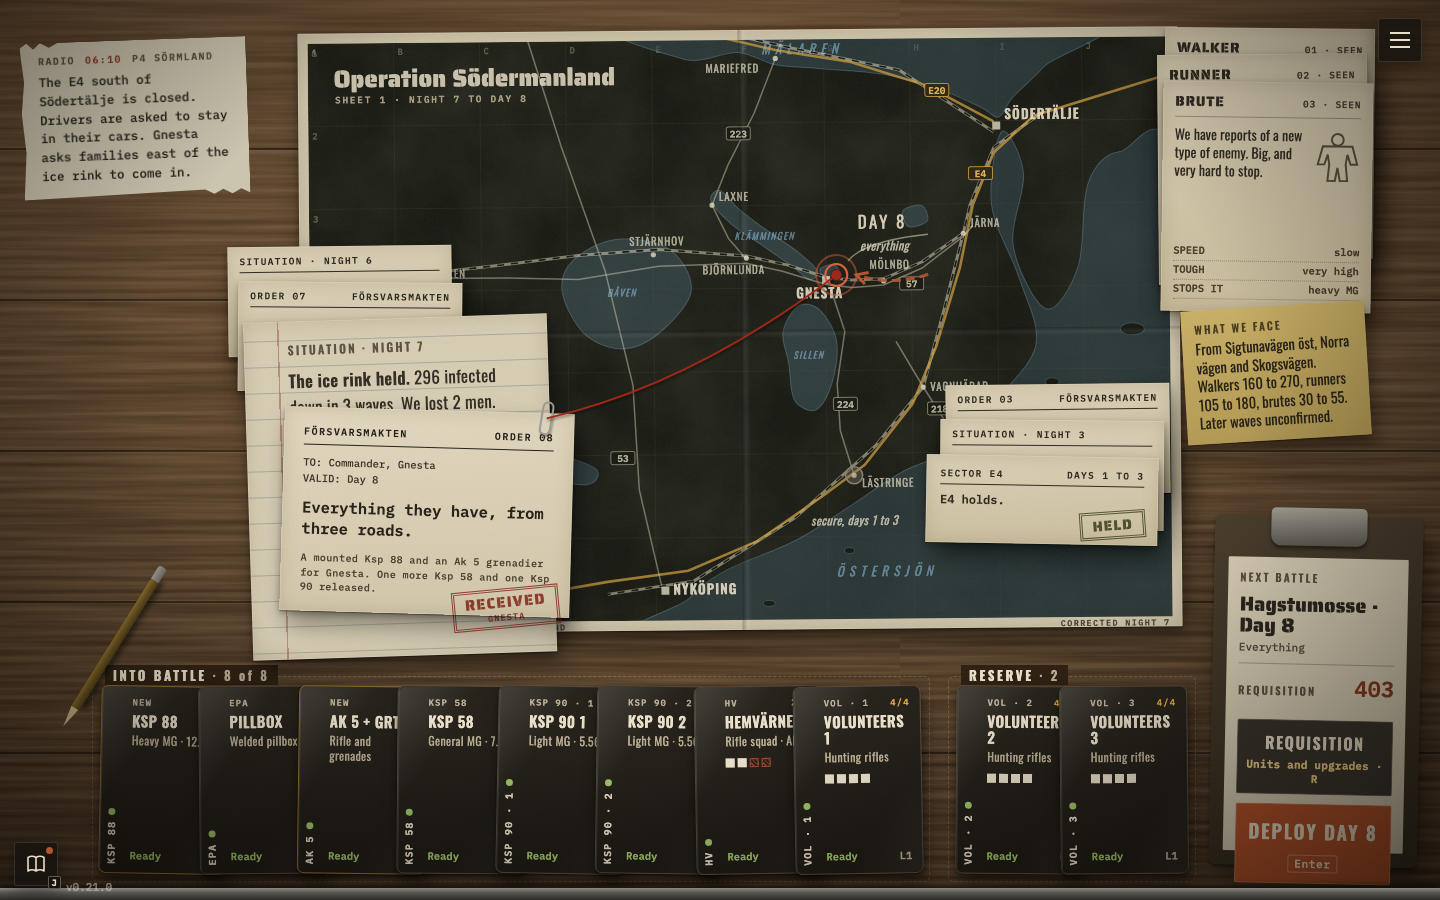
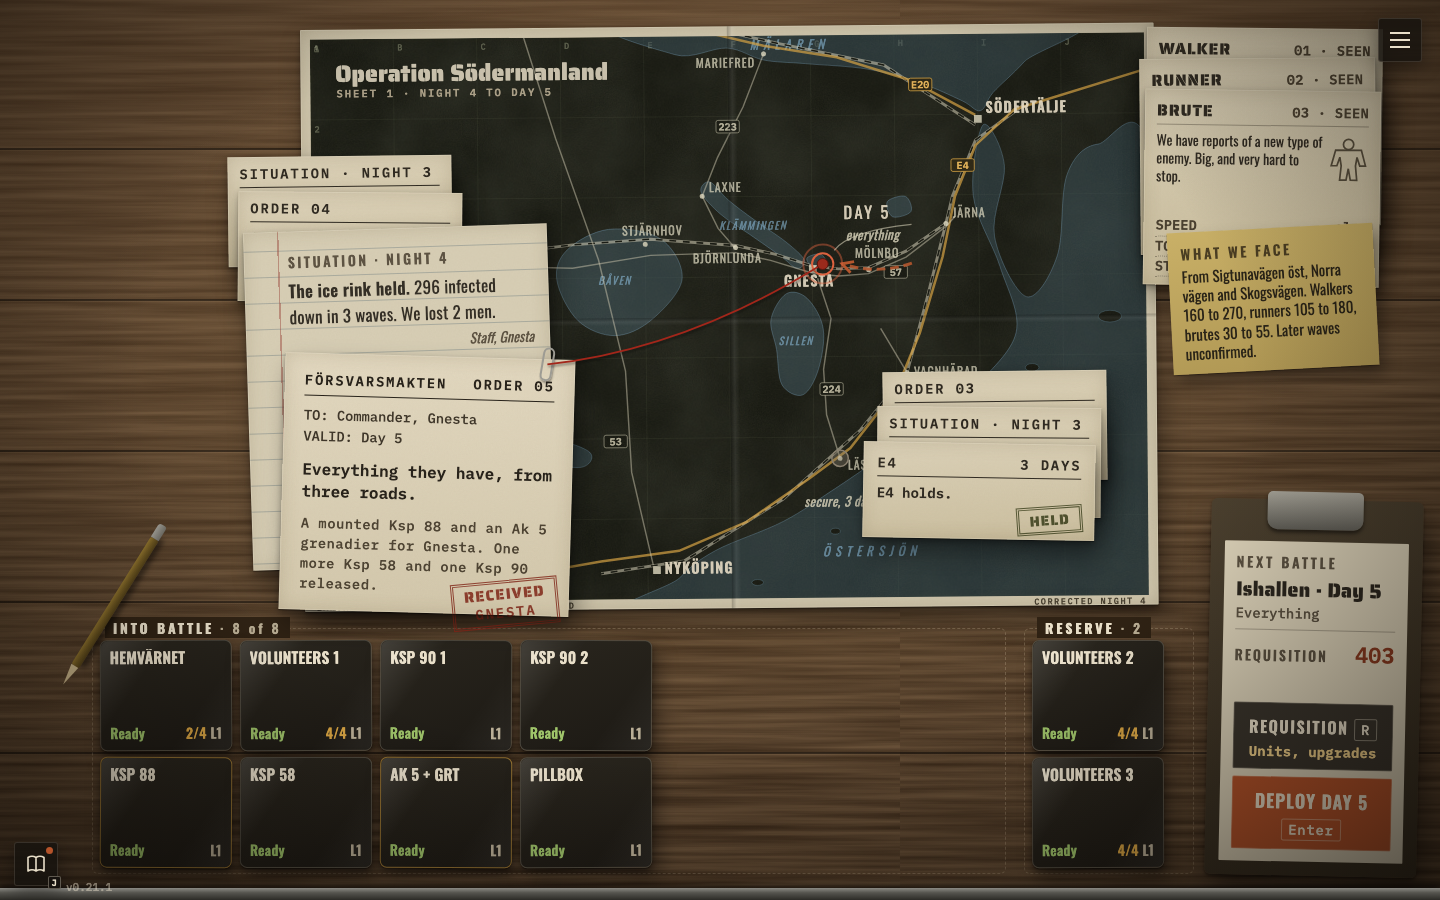
0.21.1: version, ändringslogg, spec och skärmbilder

diff --git a/index.html b/index.html
@@ -4,7 +4,7 @@
 <title>Horde</title>
 <link rel="icon" href="data:,">
 <link rel="stylesheet" href="styles.css">
-<script type="importmap">{ "imports": { "three": "https://cdn.jsdelivr.net/npm/three@0.160.0/build/three.module.js", "./src/audio/audio.js": "./src/audio/audio.js?v=0.21.0", "./src/audio/mix.js": "./src/audio/mix.js?v=0.21.0", "./src/audio/music.js": "./src/audio/music.js?v=0.21.0", "./src/audio/voices.js": "./src/audio/voices.js?v=0.21.0", "./src/data/arrival.js": "./src/data/arrival.js?v=0.21.0", "./src/data/bjornlunda.js": "./src/data/bjornlunda.js?v=0.21.0", "./src/data/depot.js": "./src/data/depot.js?v=0.21.0", "./src/data/e4-lastringe.js": "./src/data/e4-lastringe.js?v=0.21.0", "./src/data/footprints.js": "./src/data/footprints.js?v=0.21.0", "./src/data/gnesta-centrum.js": "./src/data/gnesta-centrum.js?v=0.21.0", "./src/data/gnesta-norr.js": "./src/data/gnesta-norr.js?v=0.21.0", "./src/data/gnesta.js": "./src/data/gnesta.js?v=0.21.0", "./src/data/laxne.js": "./src/data/laxne.js?v=0.21.0", "./src/data/lessons.js": "./src/data/lessons.js?v=0.21.0", "./src/data/maps.js": "./src/data/maps.js?v=0.21.0", "./src/data/molnbo.js": "./src/data/molnbo.js?v=0.21.0", "./src/data/obstacles.js": "./src/data/obstacles.js?v=0.21.0", "./src/data/osm-map.js": "./src/data/osm-map.js?v=0.21.0", "./src/data/research.js": "./src/data/research.js?v=0.21.0", "./src/data/shop.js": "./src/data/shop.js?v=0.21.0", "./src/data/table.js": "./src/data/table.js?v=0.21.0", "./src/data/weapons.js": "./src/data/weapons.js?v=0.21.0", "./src/data/zombies.js": "./src/data/zombies.js?v=0.21.0", "./src/main.js": "./src/main.js?v=0.21.0", "./src/meta/debug-store.js": "./src/meta/debug-store.js?v=0.21.0", "./src/meta/intel.js": "./src/meta/intel.js?v=0.21.0", "./src/meta/lessons.js": "./src/meta/lessons.js?v=0.21.0", "./src/meta/operation.js": "./src/meta/operation.js?v=0.21.0", "./src/meta/progress.js": "./src/meta/progress.js?v=0.21.0", "./src/meta/save.js": "./src/meta/save.js?v=0.21.0", "./src/meta/settings.js": "./src/meta/settings.js?v=0.21.0", "./src/meta/table.js": "./src/meta/table.js?v=0.21.0", "./src/meta/unlocks.js": "./src/meta/unlocks.js?v=0.21.0", "./src/render/bjornlunda-kit.js": "./src/render/bjornlunda-kit.js?v=0.21.0", "./src/render/camera-eye.js": "./src/render/camera-eye.js?v=0.21.0", "./src/render/camera-rig.js": "./src/render/camera-rig.js?v=0.21.0", "./src/render/civilians.js": "./src/render/civilians.js?v=0.21.0", "./src/render/debug-overlay.js": "./src/render/debug-overlay.js?v=0.21.0", "./src/render/dormant.js": "./src/render/dormant.js?v=0.21.0", "./src/render/e4-far.js": "./src/render/e4-far.js?v=0.21.0", "./src/render/e4-kit.js": "./src/render/e4-kit.js?v=0.21.0", "./src/render/e4-world.js": "./src/render/e4-world.js?v=0.21.0", "./src/render/fortify.js": "./src/render/fortify.js?v=0.21.0", "./src/render/fx.js": "./src/render/fx.js?v=0.21.0", "./src/render/gnesta-centrum-kit.js": "./src/render/gnesta-centrum-kit.js?v=0.21.0", "./src/render/gnesta-ghost.js": "./src/render/gnesta-ghost.js?v=0.21.0", "./src/render/gnesta-kit.js": "./src/render/gnesta-kit.js?v=0.21.0", "./src/render/gnesta-world.js": "./src/render/gnesta-world.js?v=0.21.0", "./src/render/horde.js": "./src/render/horde.js?v=0.21.0", "./src/render/house-windows.js": "./src/render/house-windows.js?v=0.21.0", "./src/render/kit.js": "./src/render/kit.js?v=0.21.0", "./src/render/laxne-kit.js": "./src/render/laxne-kit.js?v=0.21.0", "./src/render/lift.js": "./src/render/lift.js?v=0.21.0", "./src/render/models.js": "./src/render/models.js?v=0.21.0", "./src/render/molnbo-kit.js": "./src/render/molnbo-kit.js?v=0.21.0", "./src/render/molnbo-world.js": "./src/render/molnbo-world.js?v=0.21.0", "./src/render/osm-world.js": "./src/render/osm-world.js?v=0.21.0", "./src/render/picking.js": "./src/render/picking.js?v=0.21.0", "./src/render/portrait.js": "./src/render/portrait.js?v=0.21.0", "./src/render/rings.js": "./src/render/rings.js?v=0.21.0", "./src/render/route-lines.js": "./src/render/route-lines.js?v=0.21.0", "./src/render/scene.js": "./src/render/scene.js?v=0.21.0", "./src/render/squad-view.js": "./src/render/squad-view.js?v=0.21.0", "./src/render/view.js": "./src/render/view.js?v=0.21.0", "./src/render/world-marks.js": "./src/render/world-marks.js?v=0.21.0", "./src/render/world.js": "./src/render/world.js?v=0.21.0", "./src/sim/buy.js": "./src/sim/buy.js?v=0.21.0", "./src/sim/cells.js": "./src/sim/cells.js?v=0.21.0", "./src/sim/clock.js": "./src/sim/clock.js?v=0.21.0", "./src/sim/crew-path.js": "./src/sim/crew-path.js?v=0.21.0", "./src/sim/emplace.js": "./src/sim/emplace.js?v=0.21.0", "./src/sim/evac-danger.js": "./src/sim/evac-danger.js?v=0.21.0", "./src/sim/flow.js": "./src/sim/flow.js?v=0.21.0", "./src/sim/grid.js": "./src/sim/grid.js?v=0.21.0", "./src/sim/houses.js": "./src/sim/houses.js?v=0.21.0", "./src/sim/path.js": "./src/sim/path.js?v=0.21.0", "./src/sim/placement.js": "./src/sim/placement.js?v=0.21.0", "./src/sim/rng.js": "./src/sim/rng.js?v=0.21.0", "./src/sim/route.js": "./src/sim/route.js?v=0.21.0", "./src/sim/sanity.js": "./src/sim/sanity.js?v=0.21.0", "./src/sim/sim.js": "./src/sim/sim.js?v=0.21.0", "./src/sim/snap.js": "./src/sim/snap.js?v=0.21.0", "./src/sim/squad.js": "./src/sim/squad.js?v=0.21.0", "./src/sim/stats.js": "./src/sim/stats.js?v=0.21.0", "./src/sim/streets.js": "./src/sim/streets.js?v=0.21.0", "./src/ui/chord.js": "./src/ui/chord.js?v=0.21.0", "./src/ui/coach.js": "./src/ui/coach.js?v=0.21.0", "./src/ui/debug.js": "./src/ui/debug.js?v=0.21.0", "./src/ui/declutter.js": "./src/ui/declutter.js?v=0.21.0", "./src/ui/format.js": "./src/ui/format.js?v=0.21.0", "./src/ui/gesture.js": "./src/ui/gesture.js?v=0.21.0", "./src/ui/hud.js": "./src/ui/hud.js?v=0.21.0", "./src/ui/icons.js": "./src/ui/icons.js?v=0.21.0", "./src/ui/leaks.js": "./src/ui/leaks.js?v=0.21.0", "./src/ui/menu.js": "./src/ui/menu.js?v=0.21.0", "./src/ui/minimap.js": "./src/ui/minimap.js?v=0.21.0", "./src/ui/operation.js": "./src/ui/operation.js?v=0.21.0", "./src/ui/panels.js": "./src/ui/panels.js?v=0.21.0", "./src/ui/statbars.js": "./src/ui/statbars.js?v=0.21.0", "./src/ui/table.js": "./src/ui/table.js?v=0.21.0", "./src/ui/train.js": "./src/ui/train.js?v=0.21.0", "./src/version.js": "./src/version.js?v=0.21.0" } }</script>
+<script type="importmap">{ "imports": { "three": "https://cdn.jsdelivr.net/npm/three@0.160.0/build/three.module.js", "./src/audio/audio.js": "./src/audio/audio.js?v=0.21.1", "./src/audio/mix.js": "./src/audio/mix.js?v=0.21.1", "./src/audio/music.js": "./src/audio/music.js?v=0.21.1", "./src/audio/voices.js": "./src/audio/voices.js?v=0.21.1", "./src/data/arrival.js": "./src/data/arrival.js?v=0.21.1", "./src/data/bjornlunda.js": "./src/data/bjornlunda.js?v=0.21.1", "./src/data/depot.js": "./src/data/depot.js?v=0.21.1", "./src/data/e4-lastringe.js": "./src/data/e4-lastringe.js?v=0.21.1", "./src/data/footprints.js": "./src/data/footprints.js?v=0.21.1", "./src/data/gnesta-centrum.js": "./src/data/gnesta-centrum.js?v=0.21.1", "./src/data/gnesta-norr.js": "./src/data/gnesta-norr.js?v=0.21.1", "./src/data/gnesta.js": "./src/data/gnesta.js?v=0.21.1", "./src/data/laxne.js": "./src/data/laxne.js?v=0.21.1", "./src/data/lessons.js": "./src/data/lessons.js?v=0.21.1", "./src/data/maps.js": "./src/data/maps.js?v=0.21.1", "./src/data/molnbo.js": "./src/data/molnbo.js?v=0.21.1", "./src/data/obstacles.js": "./src/data/obstacles.js?v=0.21.1", "./src/data/osm-map.js": "./src/data/osm-map.js?v=0.21.1", "./src/data/research.js": "./src/data/research.js?v=0.21.1", "./src/data/shop.js": "./src/data/shop.js?v=0.21.1", "./src/data/table.js": "./src/data/table.js?v=0.21.1", "./src/data/weapons.js": "./src/data/weapons.js?v=0.21.1", "./src/data/zombies.js": "./src/data/zombies.js?v=0.21.1", "./src/main.js": "./src/main.js?v=0.21.1", "./src/meta/debug-store.js": "./src/meta/debug-store.js?v=0.21.1", "./src/meta/intel.js": "./src/meta/intel.js?v=0.21.1", "./src/meta/lessons.js": "./src/meta/lessons.js?v=0.21.1", "./src/meta/operation.js": "./src/meta/operation.js?v=0.21.1", "./src/meta/progress.js": "./src/meta/progress.js?v=0.21.1", "./src/meta/save.js": "./src/meta/save.js?v=0.21.1", "./src/meta/settings.js": "./src/meta/settings.js?v=0.21.1", "./src/meta/table.js": "./src/meta/table.js?v=0.21.1", "./src/meta/unlocks.js": "./src/meta/unlocks.js?v=0.21.1", "./src/render/bjornlunda-kit.js": "./src/render/bjornlunda-kit.js?v=0.21.1", "./src/render/camera-eye.js": "./src/render/camera-eye.js?v=0.21.1", "./src/render/camera-rig.js": "./src/render/camera-rig.js?v=0.21.1", "./src/render/civilians.js": "./src/render/civilians.js?v=0.21.1", "./src/render/debug-overlay.js": "./src/render/debug-overlay.js?v=0.21.1", "./src/render/dormant.js": "./src/render/dormant.js?v=0.21.1", "./src/render/e4-far.js": "./src/render/e4-far.js?v=0.21.1", "./src/render/e4-kit.js": "./src/render/e4-kit.js?v=0.21.1", "./src/render/e4-world.js": "./src/render/e4-world.js?v=0.21.1", "./src/render/fortify.js": "./src/render/fortify.js?v=0.21.1", "./src/render/fx.js": "./src/render/fx.js?v=0.21.1", "./src/render/gnesta-centrum-kit.js": "./src/render/gnesta-centrum-kit.js?v=0.21.1", "./src/render/gnesta-ghost.js": "./src/render/gnesta-ghost.js?v=0.21.1", "./src/render/gnesta-kit.js": "./src/render/gnesta-kit.js?v=0.21.1", "./src/render/gnesta-world.js": "./src/render/gnesta-world.js?v=0.21.1", "./src/render/horde.js": "./src/render/horde.js?v=0.21.1", "./src/render/house-windows.js": "./src/render/house-windows.js?v=0.21.1", "./src/render/kit.js": "./src/render/kit.js?v=0.21.1", "./src/render/laxne-kit.js": "./src/render/laxne-kit.js?v=0.21.1", "./src/render/lift.js": "./src/render/lift.js?v=0.21.1", "./src/render/models.js": "./src/render/models.js?v=0.21.1", "./src/render/molnbo-kit.js": "./src/render/molnbo-kit.js?v=0.21.1", "./src/render/molnbo-world.js": "./src/render/molnbo-world.js?v=0.21.1", "./src/render/osm-world.js": "./src/render/osm-world.js?v=0.21.1", "./src/render/picking.js": "./src/render/picking.js?v=0.21.1", "./src/render/portrait.js": "./src/render/portrait.js?v=0.21.1", "./src/render/rings.js": "./src/render/rings.js?v=0.21.1", "./src/render/route-lines.js": "./src/render/route-lines.js?v=0.21.1", "./src/render/scene.js": "./src/render/scene.js?v=0.21.1", "./src/render/squad-view.js": "./src/render/squad-view.js?v=0.21.1", "./src/render/view.js": "./src/render/view.js?v=0.21.1", "./src/render/world-marks.js": "./src/render/world-marks.js?v=0.21.1", "./src/render/world.js": "./src/render/world.js?v=0.21.1", "./src/sim/buy.js": "./src/sim/buy.js?v=0.21.1", "./src/sim/cells.js": "./src/sim/cells.js?v=0.21.1", "./src/sim/clock.js": "./src/sim/clock.js?v=0.21.1", "./src/sim/crew-path.js": "./src/sim/crew-path.js?v=0.21.1", "./src/sim/emplace.js": "./src/sim/emplace.js?v=0.21.1", "./src/sim/evac-danger.js": "./src/sim/evac-danger.js?v=0.21.1", "./src/sim/flow.js": "./src/sim/flow.js?v=0.21.1", "./src/sim/grid.js": "./src/sim/grid.js?v=0.21.1", "./src/sim/houses.js": "./src/sim/houses.js?v=0.21.1", "./src/sim/path.js": "./src/sim/path.js?v=0.21.1", "./src/sim/placement.js": "./src/sim/placement.js?v=0.21.1", "./src/sim/rng.js": "./src/sim/rng.js?v=0.21.1", "./src/sim/route.js": "./src/sim/route.js?v=0.21.1", "./src/sim/sanity.js": "./src/sim/sanity.js?v=0.21.1", "./src/sim/sim.js": "./src/sim/sim.js?v=0.21.1", "./src/sim/snap.js": "./src/sim/snap.js?v=0.21.1", "./src/sim/squad.js": "./src/sim/squad.js?v=0.21.1", "./src/sim/stats.js": "./src/sim/stats.js?v=0.21.1", "./src/sim/streets.js": "./src/sim/streets.js?v=0.21.1", "./src/ui/chord.js": "./src/ui/chord.js?v=0.21.1", "./src/ui/coach.js": "./src/ui/coach.js?v=0.21.1", "./src/ui/debug.js": "./src/ui/debug.js?v=0.21.1", "./src/ui/declutter.js": "./src/ui/declutter.js?v=0.21.1", "./src/ui/format.js": "./src/ui/format.js?v=0.21.1", "./src/ui/gesture.js": "./src/ui/gesture.js?v=0.21.1", "./src/ui/hud.js": "./src/ui/hud.js?v=0.21.1", "./src/ui/icons.js": "./src/ui/icons.js?v=0.21.1", "./src/ui/leaks.js": "./src/ui/leaks.js?v=0.21.1", "./src/ui/menu.js": "./src/ui/menu.js?v=0.21.1", "./src/ui/minimap.js": "./src/ui/minimap.js?v=0.21.1", "./src/ui/operation.js": "./src/ui/operation.js?v=0.21.1", "./src/ui/panels.js": "./src/ui/panels.js?v=0.21.1", "./src/ui/statbars.js": "./src/ui/statbars.js?v=0.21.1", "./src/ui/table.js": "./src/ui/table.js?v=0.21.1", "./src/ui/train.js": "./src/ui/train.js?v=0.21.1", "./src/version.js": "./src/version.js?v=0.21.1" } }</script>
 </head><body>
 <div id="stage" class="grade"></div>
 <div class="vignette"></div>
@@ -37,5 +37,5 @@
   });
 })();
 </script>
-<script type="module" src="src/main.js?v=0.21.0"></script>
+<script type="module" src="src/main.js?v=0.21.1"></script>
 </body></html>

diff --git a/docs/superpowers/specs/2026-10-19-kartbordet-bygge.md b/docs/superpowers/specs/2026-10-19-kartbordet-bygge.md
@@ -1,4 +1,4 @@
-# Kartbordet: vad som byggdes (0.21.0, 2026-10-19)
+# Kartbordet: vad som byggdes (0.21.0 och 0.21.1, 2026-10-19)
 
 Efter mockupen docs/mockups/kontrollrum-3.html och mellansnack avsnitt 10 och 11. Skärmbilder: docs/hub-0.21-start.png (dag 1), docs/hub-0.21-day8.png (kampanjens dag 8 = Ishallen dag 5, efter en riktig dag 7 med Quick jump och Auto-deploy) och docs/hub-0.21-molnbo.png (mockupens läge, Mölnbo dag 1).
 
@@ -12,19 +12,21 @@ Efter mockupen docs/mockups/kontrollrum-3.html och mellansnack avsnitt 10 och 11
 - En sak i taget. Dag 1: kartan och en lapp (dagens order) med Deploy på lappen. Fiendehögen kommer efter första mötet, radion med första remsan, korten och klämbrädan (Next battle, RP, Requisition, Deploy) med förrådet (efter Ishallen dag 2). Sektorernas lägen på kartan, rapporterade fiender och lappen What we face kommer med operationskartan (efter E4 dag 3). Grindarna är src/meta/unlocks.js, oförändrade.
 - Uppdragshögar: en per sektor, order och lägesrapport per dag i tidsordning, nyast överst. Nästa strids hög har gårdagens rapport under ordern och ett snöre till platsen. En klar sektor får ett slutblad med stämpeln HELD. Klick breder ut högen (de åtta nyaste bladen), klick eller Esc lägger ihop den.
 - Fiendehögen: ett blad per mött typ (ENEMIES i src/data/lessons.js, siluetten från FOE_ICONS). Klick på en kant lägger bladet överst.
-- Korten: förrådets två banor (lanes, setLane) som två fält. Klick flyttar ett kort till andra fältet, dra till fältet eller släpp på ett kort i andra fältet för att byta (swapCards = två setLane). Taket, tomma grupper och skälen är förrådets. Varje kort har en rygg med typ och nummer som syns även när korten ligger tätt.
+- Korten: förrådets två banor (lanes, setLane) som två fält. Klick flyttar ett kort till andra fältet, dra till fältet eller släpp på ett kort i andra fältet för att byta (swapCards = två setLane). Taket, tomma grupper och skälen är förrådets. 0.21.1: korten överlappar inte; ryms de inte i en rad blir de mindre i två till fyra rader, alltid med namn, styrka och trötthet.
 - Requisition (R eller knappen) är förrådets skylt som en klämbräda över bordet; Esc går tillbaka till bordet, Enter ställer upp.
 - Tangenter: Enter Deploy, Esc lägger ihop en utbredd hög eller öppnar menyn, R Requisition, T Tidy.
 - Deploy på bordet startar dagen direkt. Första gången förrådet har ett steg som inte setts (nivåer, rekvisition, uppgraderingar, tröttheten) går Deploy via Requisition, så att lektionerna kommer där de hör hemma.
-- Dagens nummer på bordet är kampanjens dag (ORDER 08, DAY 8). Dagens banor räknas i schemats ordning: E4 1 till 3, Ishallen 4 till 8, Vikingavägen 9 till 13, Mölnbo 14 till 18. Introkortet i striden visar fortfarande banans egen titel.
+- Dagens nummer på bordet är banans egen dag (0.21.1, speltestet: två nummer förvirrade), som introt, HUD:en och menyn: "Ishallen · Day 3", ORDER 03. day.campaignDay går före när en bana har det.
+- Bordets yta (0.21.1, src/meta/table.js frameFor): skalan minst 0,8 så att texten blir minst 11 px; i mindre fönster blir ytan mindre och kartbladet krymper. Korten och klämbrädan står mot nederkanten, fiendehögen och klämbrädan mot högerkanten.
+- En förlorad dag (0.21.1) lägger ett blad överst i högen med utfallet (table.log['lost:bana:dag']). Radion har en remsa bara natten efter en dag med sändning. Operationskartans tips visas inte på bordet.
 
 ## Sparfilen
 progress.table = { layout: { id: { x, y } }, log: { 'bana:dag': { kills, waves, lost, saved, total } } }. Valfritt fält i v4 (ingen ny version, ingen sparfil raderas); saknas eller är trasigt blir bordet tomt (normalizeTable, i loadProgress). log skrivs när en dag vinns och är det lägesrapporten skrivs ur när banan saknar egen text.
 
 ## Datafält som andra grenar fyller (alla valfria, med standard i läsande kod)
-- day.report = { from: 'MCF' | 'Försvarsmakten' | 'P4 Sörmland', text, at? }: lägesrapporten efter dagen, 40 till 60 ord. from 'P4 Sörmland' blir en radioremsa (högst 40 ord, at = klockslag "04:40"). Saknas den skrivs en kort rapport ur dagens siffror.
+- day.report = { from: 'MCF' | 'Försvarsmakten' | 'P4 Sörmland', text, at? }: lägesrapporten efter dagen, 40 till 60 ord. from 'P4 Sörmland' blir en radioremsa natten efter dagen (högst 40 ord, at = klockslag "04:40"). Saknas den skrivs en kort rapport ur dagens siffror.
 - day.order = { from, text }: ordern för dagen, högst 12 ord. Saknas den används intro.text och leveransens from (RELEASES).
-- day.campaignDay: kampanjens dagnummer på bordet (t.ex. Mölnbo dag 1 = 8 när bågen är byggd). Saknas det räknas dagarna i schemats ordning.
+- day.campaignDay: kampanjens dagnummer på bordet (t.ex. Mölnbo dag 1 = 8 när bågen är byggd). Saknas det står banans egen dag.
 - map.outro.summary: slutbladets rad (annars första meningen i outro.text).
 - Ny sektor: en rad i SECTOR_TABLE (place, current, closed, day) i src/data/table.js; utan den får högen en ledig plats och ingen markör.
 - Radio utan banans fält: RADIO i src/data/table.js (after: [bana, dag]); dagens egen P4-rapport går före.

diff --git a/CHANGELOG.md b/CHANGELOG.md
@@ -1,5 +1,17 @@
 # Ändringslogg
 
+## 0.21.1 (kartbordet) (2026-10-19)
+
+Speltestet av 0.21.0 sa NEJ, nära (docs/playtests/2026-10-19-0.21.0-hub.md).
+
+- Korten går att läsa med många enheter: de överlappar inte längre utan läggs i två, tre eller fyra rader med mindre kort när de inte ryms i en. Varje kort har namnet, styrkan och tröttheten utan hovring, och ordningen står still när ett kort flyttas.
+- Bordet följer fönstret: skalan är minst 0,8 (texten minst 11 px i 1024x614), ytan blir mindre i små fönster och kartbladet krymper för att ge korten plats. Klämbrädan står mot nederkanten och ryms i varje storlek, och "Deploy day 13" står på en rad.
+- Operationskartans tips ("Open the sector", "The depot opens before the day") visas inte på bordet; Classic har kvar dem.
+- Samma dagnummer överallt: bordet visar banans dag ("Ishallen · Day 3", ORDER 03), som introt, HUD:en och menyn. day.campaignDay är kvar som krok för kampanjbågen.
+- En förlorad dag får ett blad överst i högen: "Day 3 lost. Try again at dawn." med utfallet. Resultatet efter en förlust säger Map table.
+- Ordern ligger lägre på rapporten, så att rapportens två översta rader går att läsa. Radion har en remsa bara natten efter en dag med sändning.
+- Layoutprovet går igenom bordet också i 1440x900 och 1920x1080, med 16 och 20 enheter, en förlorad dag, radio och ingen radio, dagnumret, tipsen, textstorleken och Deploy-knappen.
+
 ## 0.21.0 (kartbordet) (2026-10-19)
 
 Mellan dagarna ligger nu ett kartbord i brandstationen i Gnesta, byggt efter mockupen docs/mockups/kontrollrum-3.html och Olas beslut i mellansnack avsnitt 11 (H500). Det ersätter operationskartan och förrådet som två skyltar; de gamla finns kvar i spelmenyn under Between days: Classic. Spec: docs/superpowers/specs/2026-10-19-kartbordet-bygge.md. Skärmbilder: docs/hub-0.21-start.png, docs/hub-0.21-day8.png, docs/hub-0.21-molnbo.png.
